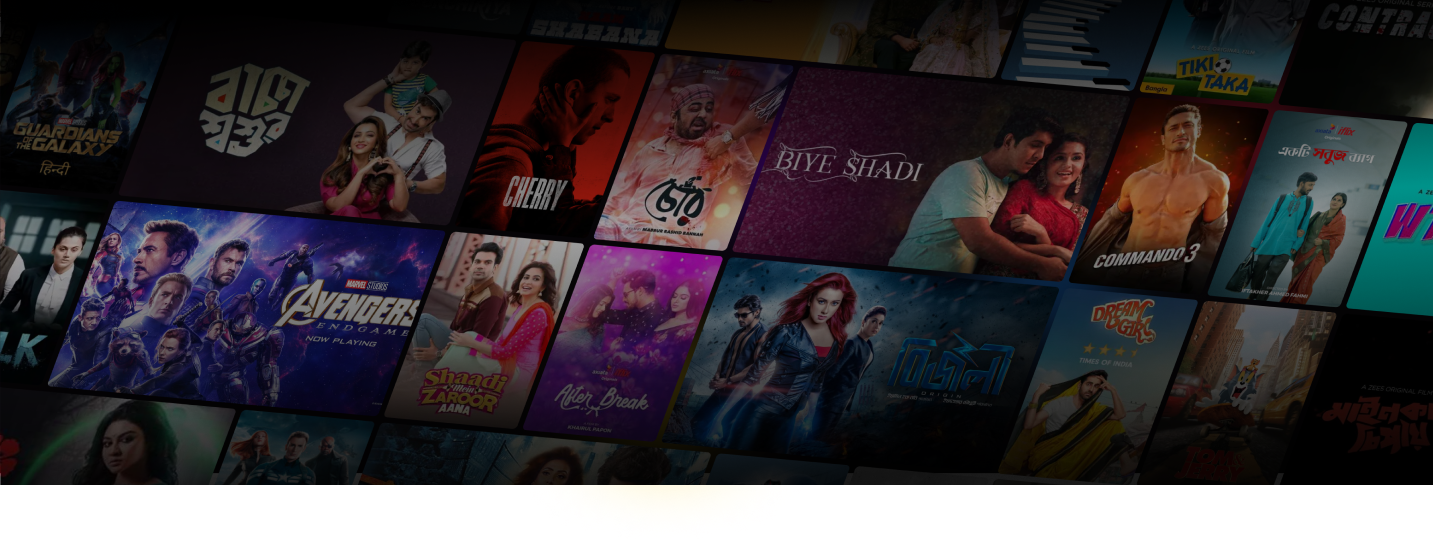
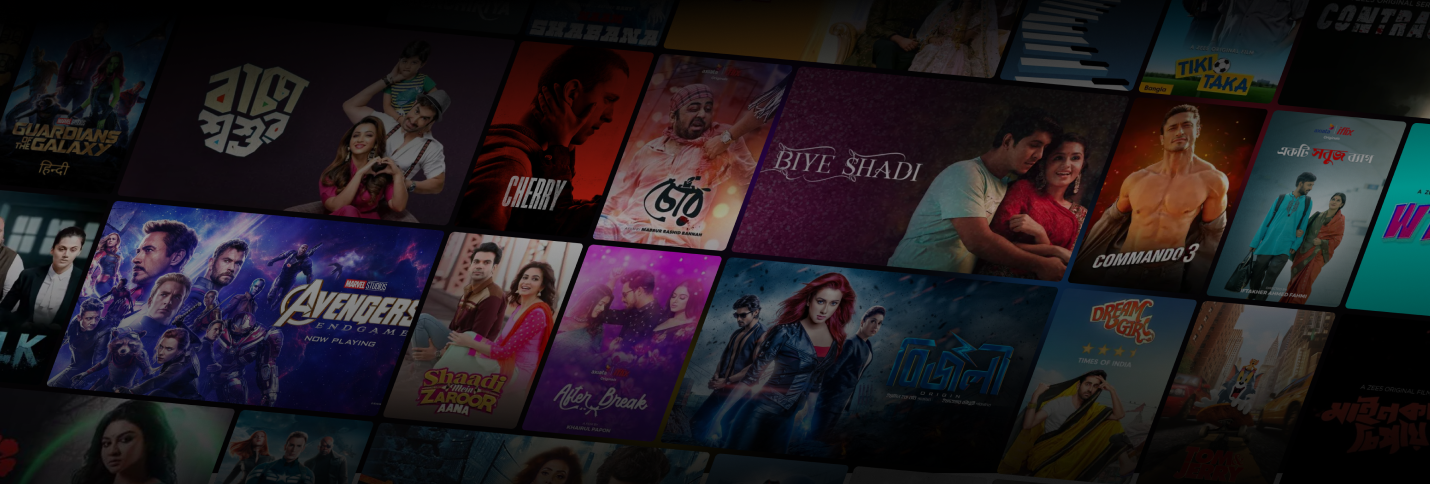
Adiciona mudanças a imagem backgroundHome

diff --git a/src/pages/logIn.html b/src/pages/logIn.html
@@ -31,10 +31,10 @@
                  
                 <li class="nav-item">
                   
-                   <a class="nav-link link-light fonte-nav-bar ms-3 mt-2 fs-7"  href="#"><img src="../../assets/img/home.png"> Página Inicial </a>
+                   <a class="nav-link link-light fonte-nav-bar ms-3 mt-2 fs-7"  href="#"><img src="../assets/img/home.png"> Página Inicial </a>
                 </li>
                 <li class="nav-item">
-                  <a class="nav-link link-light fonte-nav-bar ms-3 mt-2 fs-7" href="#"> <img src="../../assets/img/contato.png">Contatos</a>
+                  <a class="nav-link link-light fonte-nav-bar ms-3 mt-2 fs-7" href="#"> <img src="../assets/img/contato.png">Contatos</a>
                 </li>
               </ul>
             </div>

diff --git a/src/assets/styles/login.css b/src/assets/styles/login.css
@@ -1,18 +1,20 @@
-* { margin: 0%;
-    padding: 0%;
+* { 
+    margin: 0;
+    padding: 0;
+    box-sizing: border-box;
 }
 
 #imagem-fundo {
     background: url("../img/backgroundHome.png");
     background-repeat: no-repeat;
     background-size: cover;
-    height: 80vh;
+    height: 83vh;
     
   }
 
 
 .tamanho-header { 
-    height: 10vh;
+    height: 7vh;
 }
 
 .cor-nav-bar { 
